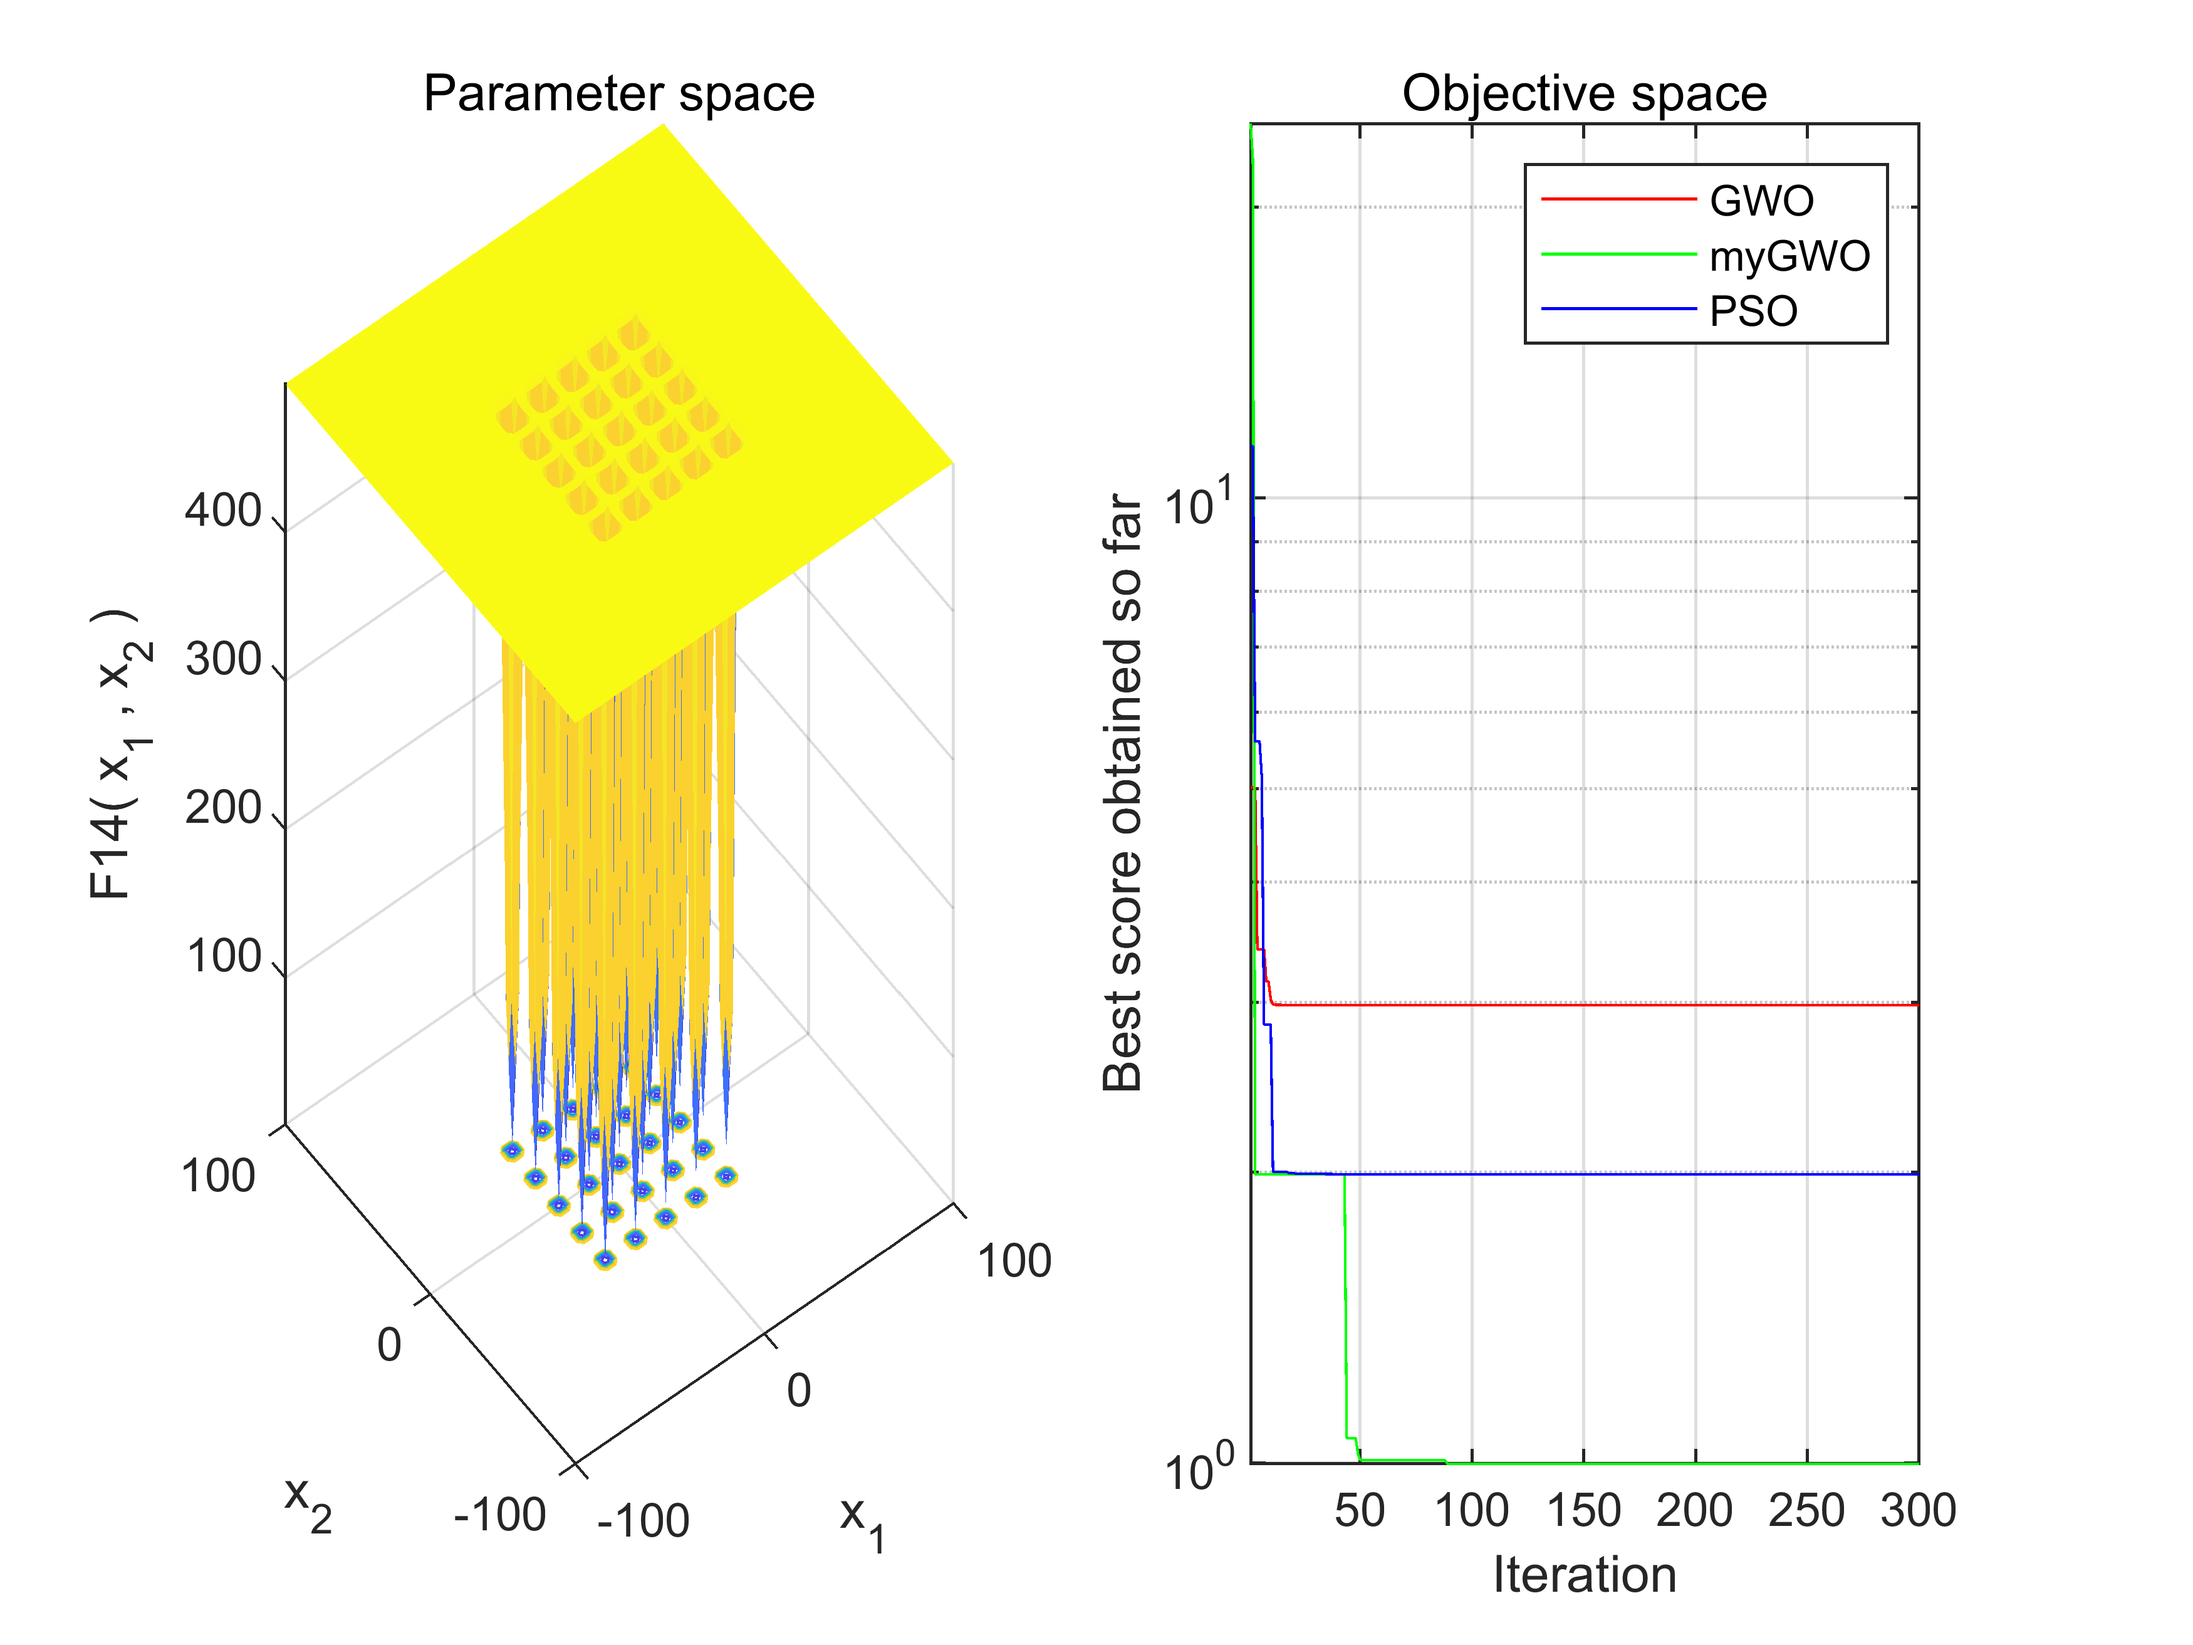
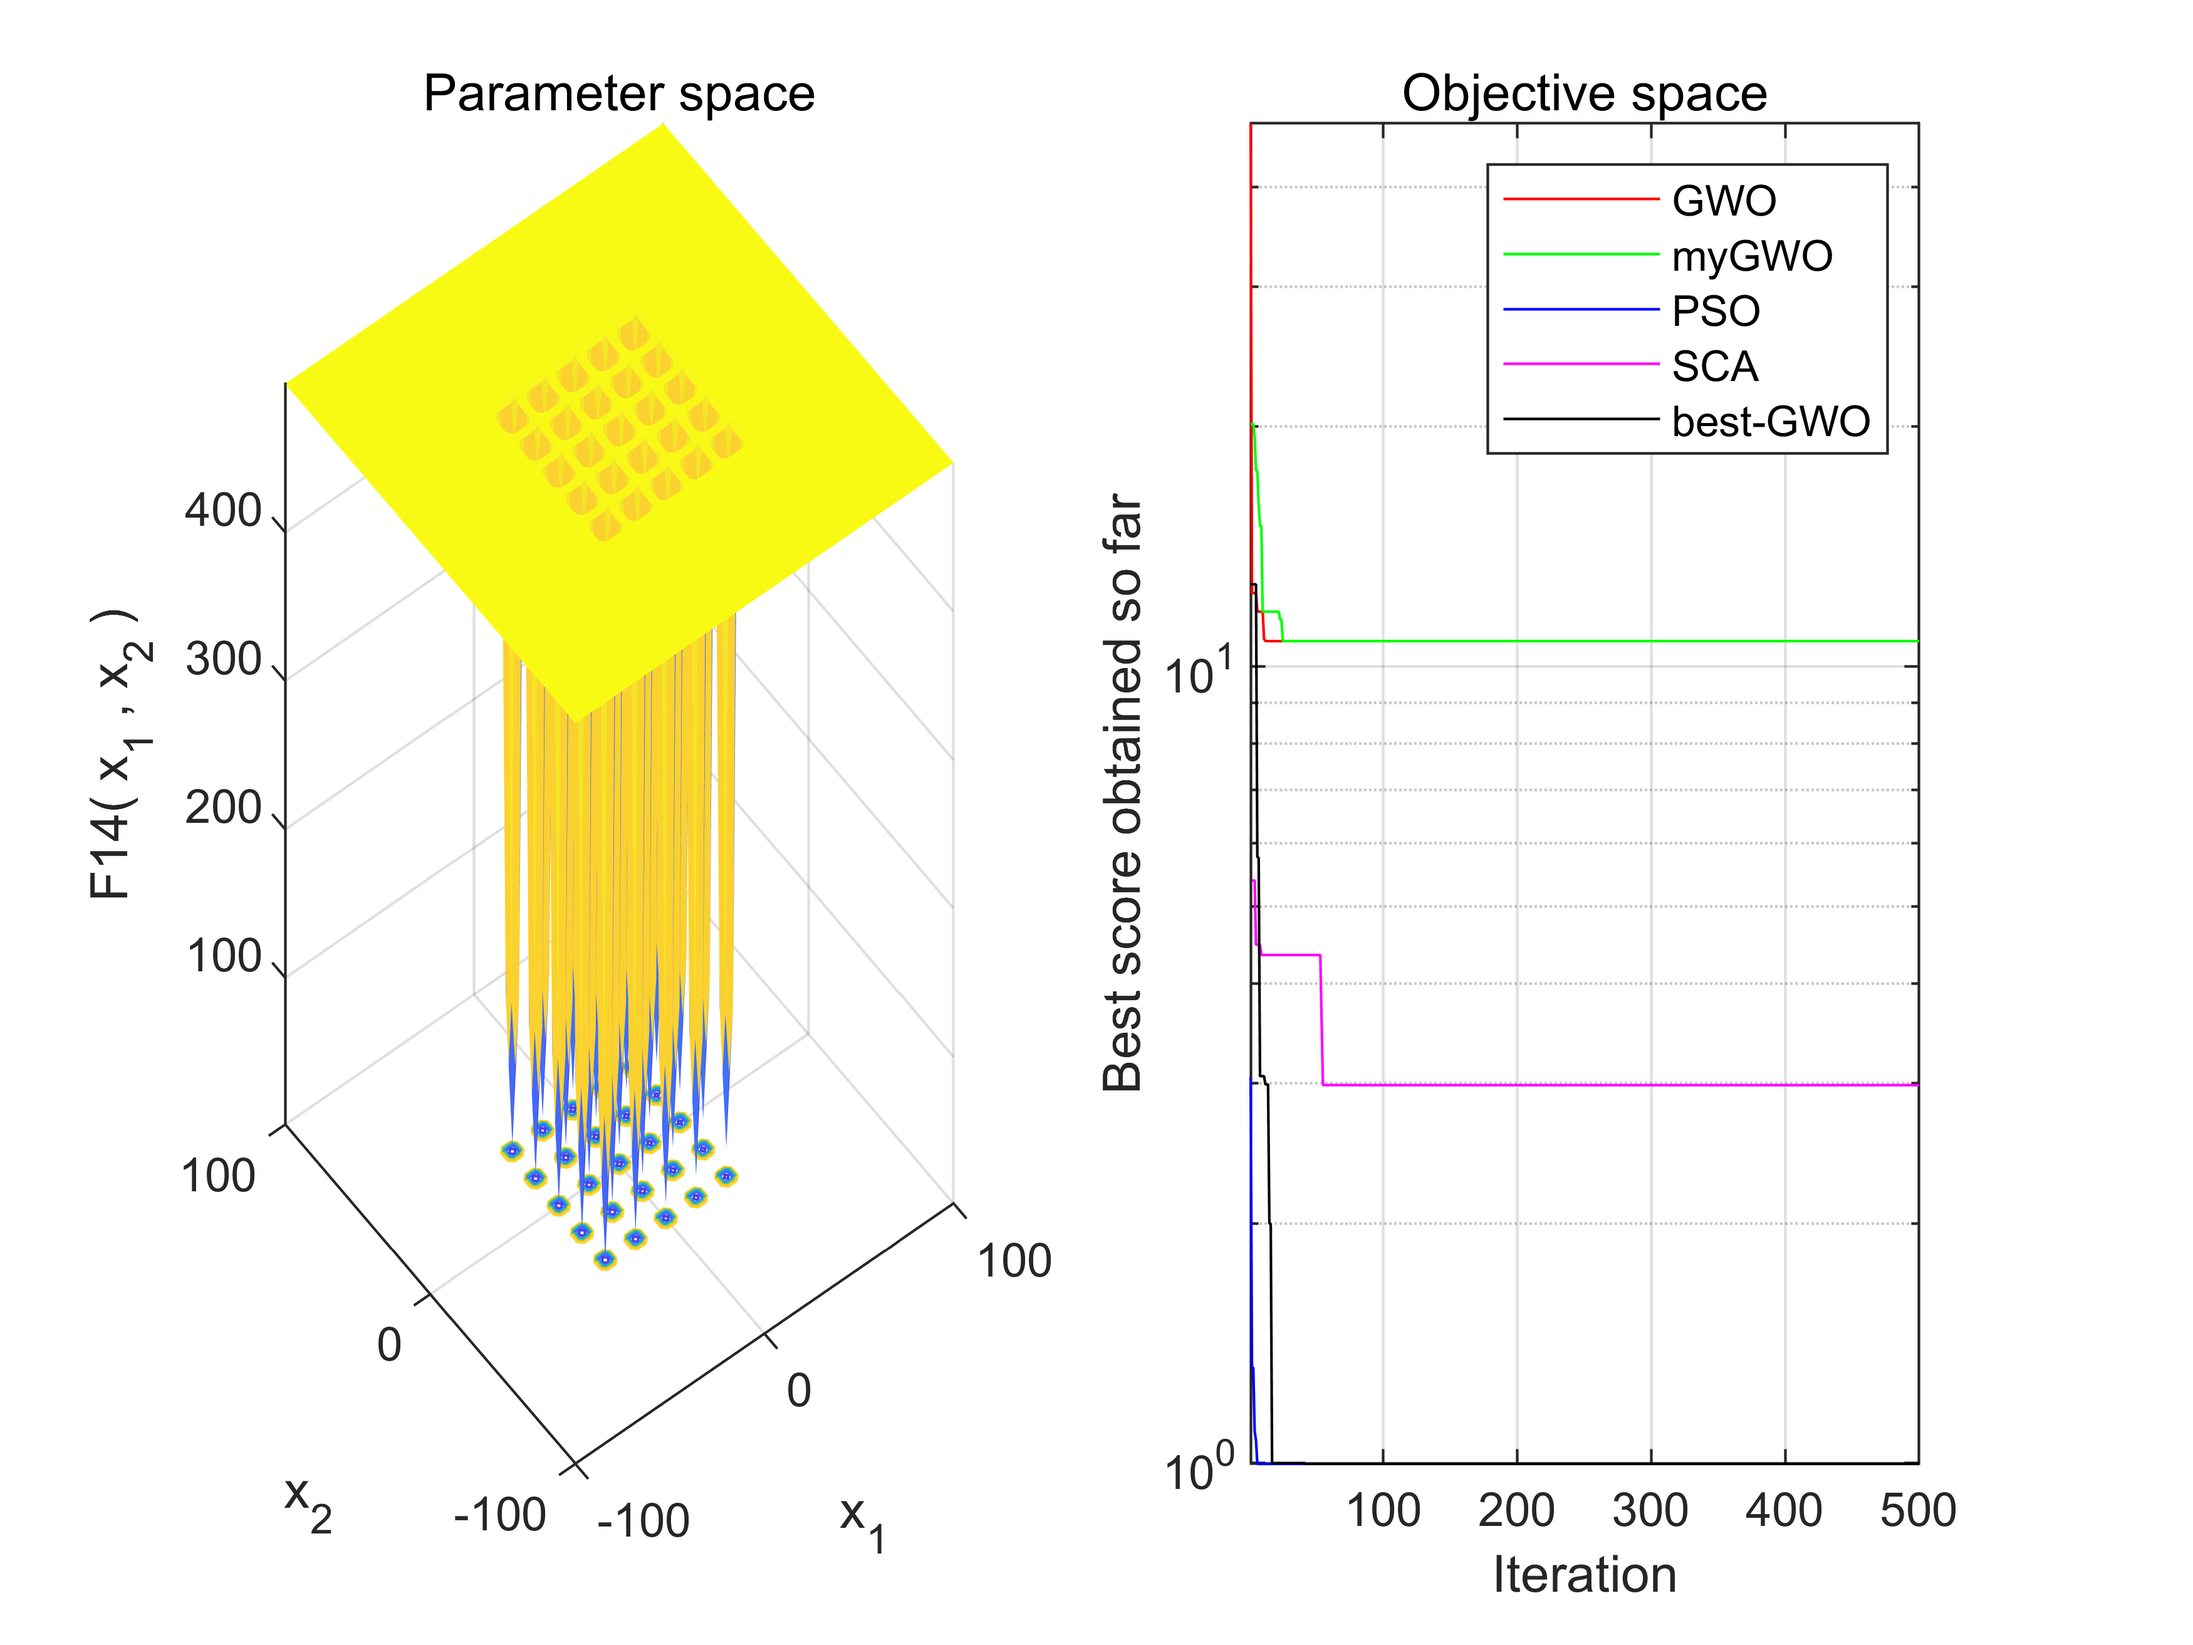
加入了Logstic混沌映射初始化种群

diff --git a/GWO_original/main.m b/GWO_original/main.m
@@ -34,10 +34,13 @@
 
 clear all
 for kw = 1:22
+    if kw == 17
+        continue
+    end
     SearchAgents_no=50; % Number of search agents
     Function_name=strcat('F', num2str(kw)); % Name of the test function that can be from F1 to F23 (Table 1,2,3 in the paper)
 
-    Max_iteration=300; % Maximum numbef of iterations
+    Max_iteration=500; % Maximum numbef of iterations
     
     % Load details of the selected benchmark function
     [lb,ub,dim,fobj]=Get_Functions_details(Function_name);
@@ -45,7 +48,8 @@ for kw = 1:22
     [Best_score,Best_pos,GWO_cg_curve]=GWO(SearchAgents_no,Max_iteration,lb,ub,dim,fobj);
     [my_Best_score,my_Best_pos,my_GWO_cg_curve]=IGWO(SearchAgents_no,Max_iteration,lb,ub,dim,fobj);
     PSO_cg_curve=PSO(SearchAgents_no,Max_iteration,lb,ub,dim,fobj); % run PSO to compare to results
-
+    [Best_score_SCA,Best_pos_SCA,cg_curve_SCA]=SCA(SearchAgents_no,Max_iteration,lb,ub,dim,fobj);
+    [my_Best_score2,my_Best_pos2,my_GWO_cg_curve2]=IGWO2(dim,SearchAgents_no,Max_iteration,lb,ub,fobj);
     figure('Position',[500 500 660 290])
     fig = figure(Visible="off");
     % Draw search space
@@ -62,6 +66,8 @@ for kw = 1:22
     hold on
     semilogy(my_GWO_cg_curve, 'Color', 'g');
     semilogy(PSO_cg_curve, 'Color', 'b');
+    semilogy(cg_curve_SCA, 'Color', 'magenta')
+    semilogy(my_GWO_cg_curve2, 'Color', 'black');
     title('Objective space')
     xlabel('Iteration');
     ylabel('Best score obtained so far');
@@ -69,7 +75,7 @@ for kw = 1:22
     axis tight
     grid on
     box on
-    legend('GWO', 'myGWO', 'PSO')
+    legend('GWO', 'myGWO', 'PSO', 'SCA', 'best-GWO')
     asdas = num2str(kw);
     disp(asdas)
     file_name = strcat('C:\Users\zlaa\Documents\MATLAB\GWO_original\all_fun\', num2str(kw), '.png');
@@ -78,11 +84,5 @@ for kw = 1:22
     print(fig, '-dpng', '-r600', strcat('C:\Users\zlaa\Documents\MATLAB\GWO_original\all_fun\', num2str(kw), '.png'))  
     display(['The best solution obtained by GWO is : ', num2str(Best_pos)]);
     display(['The best optimal value of the objective funciton found by GWO is : ', num2str(Best_score)]);
+    disp('-------------------------------')
 end
-
-
-
-        
-
-
-

diff --git a/GWO_original/IGWO.m b/GWO_original/IGWO.m
@@ -12,7 +12,7 @@ Delta_pos=zeros(1,dim);
 Delta_score=inf; %change this to -inf for maximization problems
 
 %Initialize the positions of search agents
-Positions=initialization(SearchAgents_no,dim,ub,lb);
+Positions=Logstic_initialization(SearchAgents_no,dim,ub,lb);
 
 Convergence_curve=zeros(1,Max_iter);
 
@@ -61,9 +61,9 @@ while l<Max_iter
     a=2-l*((2)/Max_iter); % a decreases linearly fron 2 to 0
 
 
-    [Alpha_pos, Alpha_score] = update_wolf(l, Max_iter, Positions, dim, fobj, lb, ub, Alpha_score, Alpha_pos);
-    [Beta_pos, Beta_score] = update_wolf(l, Max_iter, Positions, dim, fobj, lb, ub, Beta_score, Beta_pos);
-    [Delta_pos, Delta_score] = update_wolf(l, Max_iter, Positions, dim, fobj, lb, ub, Delta_score, Delta_pos);
+%     [Alpha_pos, Alpha_score] = update_wolf(l, Max_iter, Positions, dim, fobj, lb, ub, Alpha_score, Alpha_pos);
+%     [Beta_pos, Beta_score] = update_wolf(l, Max_iter, Positions, dim, fobj, lb, ub, Beta_score, Beta_pos);
+%     [Delta_pos, Delta_score] = update_wolf(l, Max_iter, Positions, dim, fobj, lb, ub, Delta_score, Delta_pos);
 
     
     % Update the Position of search agents including omegas
@@ -97,8 +97,8 @@ while l<Max_iter
             D_delta=abs(C3*Delta_pos(j)-Positions(i,j)); % Equation (3.5)-part 3
             X3=Delta_pos(j)-A3*D_delta; % Equation (3.5)-part 3             
             
-            %Positions(i,j)=(X1+X2+X3)/3;% Equation (3.7)
-            Positions(i,j) = (X1 * Alpha_score + X2 * Beta_score + X3 * Delta_score) / (Alpha_score + Beta_score + Delta_score);
+            Positions(i,j)=(X1+X2+X3)/3;% Equation (3.7)
+            %Positions(i,j) = (X1 * Alpha_score + X2 * Beta_score + X3 * Delta_score) / (Alpha_score + Beta_score + Delta_score);
         end
     end
 

diff --git a/GWO_original/update_wolf.m b/GWO_original/update_wolf.m
@@ -25,29 +25,30 @@ function [new_wolf, new_score] = update_wolf(l, Max_iter, Positions, dim, fobj, 
     % whether accept the new alpha wolf according to SA
     new_alpha_score = fobj(mid_wolf);
     Delta = new_alpha_score - Alpha_score;
-    if (Delta < 0) 
-        Alpha_score = new_alpha_score;
-        Alpha_pos = mid_wolf;
-    end
-
-%     if Delta < 0  % uphill move (good move)
-%         %disp('better')
+%     if (Delta < 0) 
 %         Alpha_score = new_alpha_score;
 %         Alpha_pos = mid_wolf;
-%     else % downhill move (bad move)
-%         P=exp(-Delta/ (l + 1));
-%         if rand()<=P
-%             Alpha_score = new_alpha_score;
-%             Alpha_pos = mid_wolf;
-%         end
 %     end
-% 
-%     for i=1:dim
-%         if Alpha_pos(i) < lb || Alpha_pos(i) > ub
-%             Alpha_pos(i) = lb + rand() * (ub - lb);
-%         end
-%     end
-%     % end the update of alpha wolf
+    if Delta < 0  % uphill move (good move)
+        disp('better')
+        Alpha_score = new_alpha_score;
+        Alpha_pos = mid_wolf;
+    else % downhill move (bad move)
+        P=exp(-Delta/ (l + 1));
+        disp('same')
+        if rand()<=P
+            disp('worse')
+            Alpha_score = new_alpha_score;
+            Alpha_pos = mid_wolf;
+        end
+    end
+
+    for i=1:dim
+        if Alpha_pos(i) < lb || Alpha_pos(i) > ub
+            Alpha_pos(i) = lb + rand() * (ub - lb);
+        end
+    end
+    % end the update of alpha wolf
     new_wolf = Alpha_pos;
     new_score = Alpha_score;
 end
